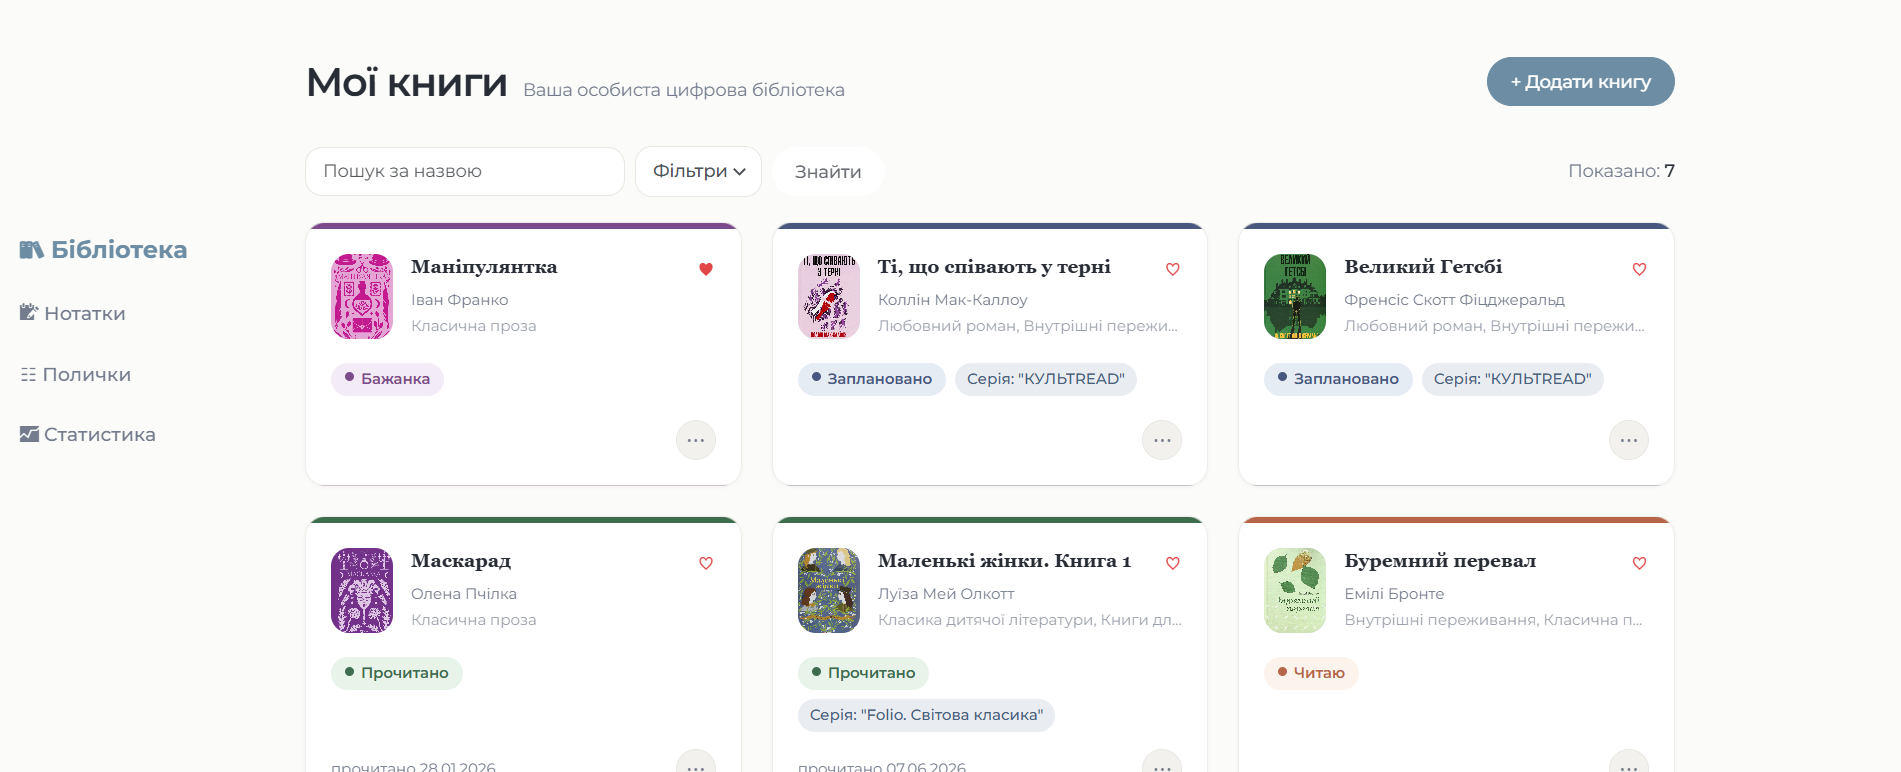
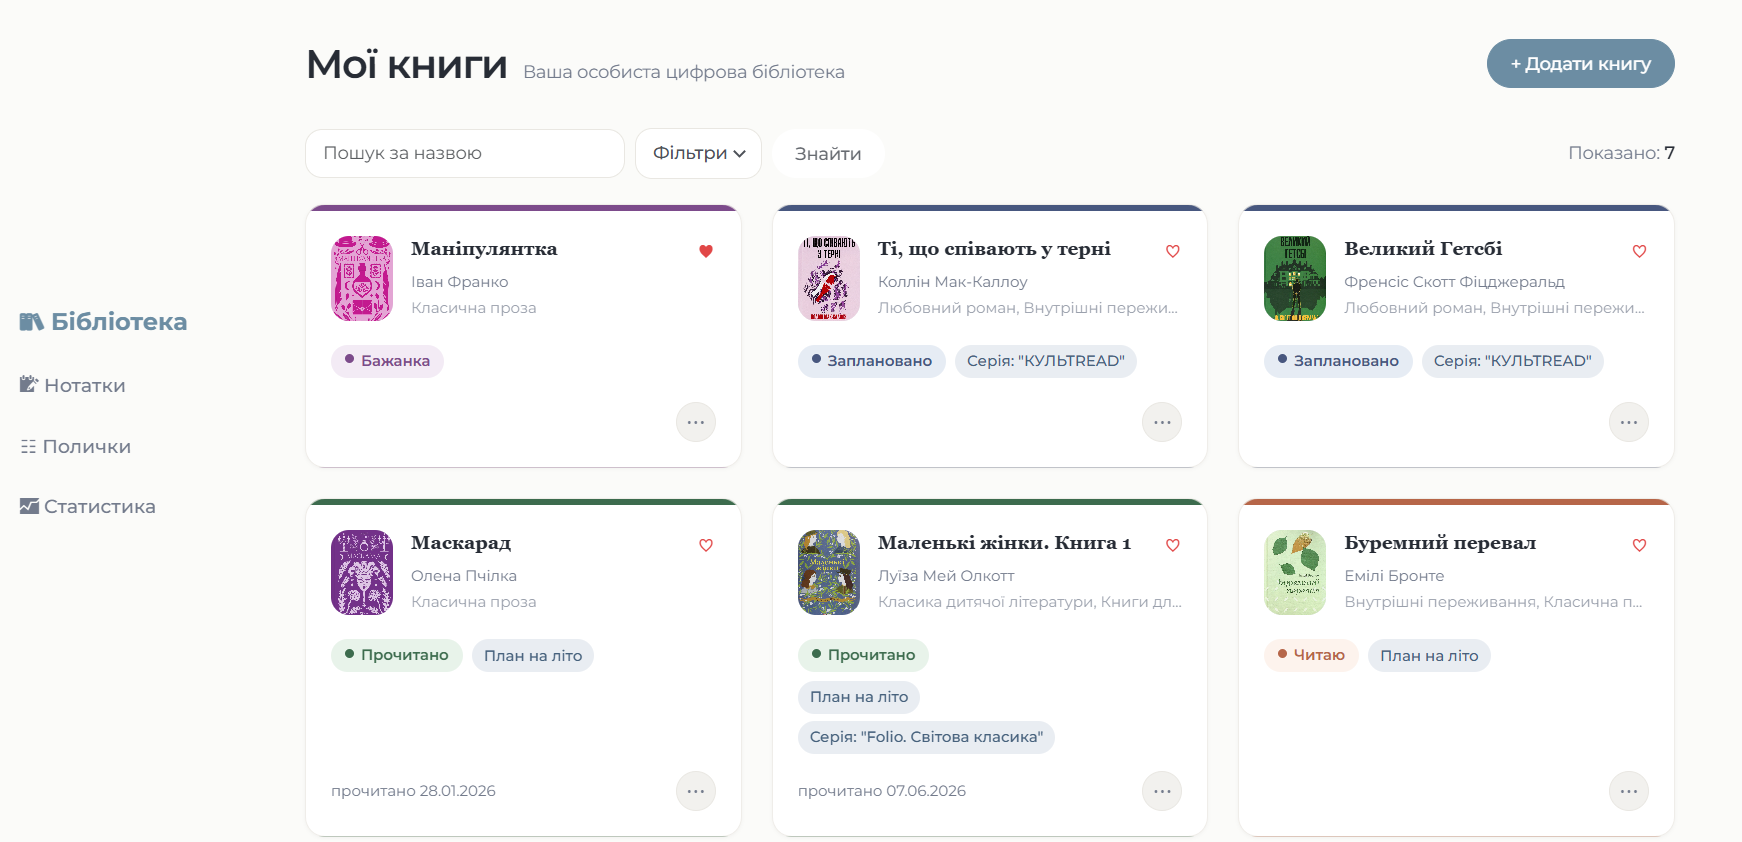
Keep mobile bottom navigation in one row

diff --git a/static/css/styles.css b/static/css/styles.css
@@ -2224,8 +2224,8 @@ a:hover {
 
     .sidebar-nav {
         display: grid;
-        gap: 0.35rem;
-        grid-template-columns: repeat(3, minmax(0, 1fr));
+        gap: 0.25rem;
+        grid-template-columns: repeat(4, minmax(0, 1fr));
         overflow: visible;
     }
 
@@ -2233,18 +2233,20 @@ a:hover {
     .sidebar-nav span {
         border-radius: 0.8rem;
         flex-direction: column;
-        font-size: 0.72rem;
+        font-size: 0.68rem;
         gap: 0.15rem;
         justify-content: center;
+        line-height: 1.1;
         min-width: 0;
-        padding: 0.45rem 0.25rem;
+        padding: 0.45rem 0.15rem;
         text-align: center;
-        white-space: normal;
+        white-space: nowrap;
     }
 
     .sidebar-nav a.is-active {
         background: var(--primary-soft);
-        font-size: 0.78rem;
+        font-size: 0.68rem;
+        font-weight: 800;
     }
 
     .has-sidebar .content-wrap {
